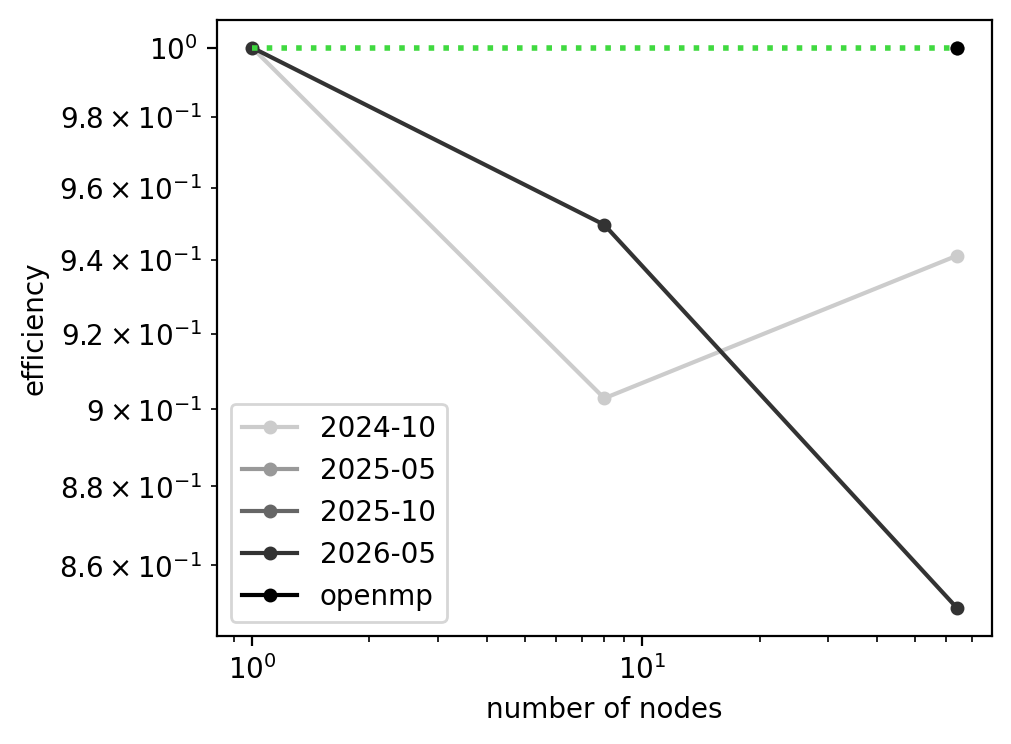
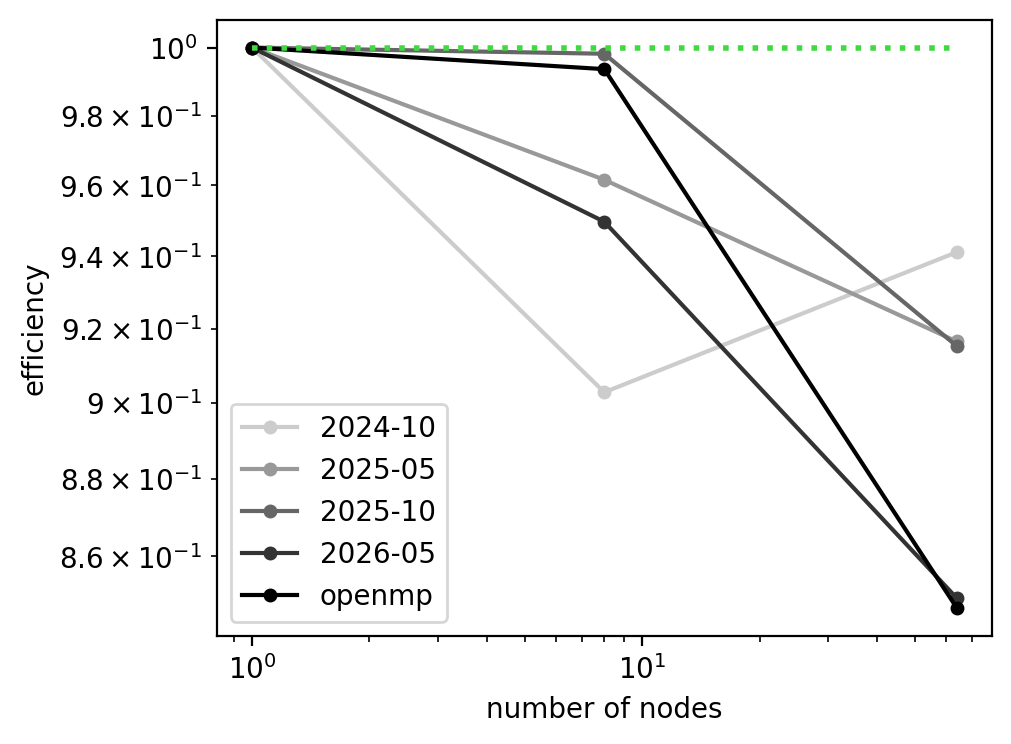
update weak scaling and omp config

diff --git a/analysis/report_scaling.py b/analysis/report_scaling.py
@@ -25,9 +25,15 @@ timer='total'
 
 md = f"""# Benchmark: {args.benchmark} on {args.cluster}
 
-[Benchmark description: {args.benchmark}](../setups/{args.benchmark}/description.md)
+Benchmark description: [{args.benchmark}](../setups/{args.benchmark}/description.md)
 
-[Cluster info: {args.cluster}](../HPCclusters/{args.cluster}/cluster_description.md)
+Cluster info: [{args.cluster}](../HPCclusters/{args.cluster}/cluster_description.md)
+
+On this page:
+* Strong and weak scaling of the latest code release (figure)
+* Evolution of execution time with code version (figure & table with speedup)
+* Strong scaling evolution (figure & table with efficiency)
+* Weak scaling evolution (figure & table with efficiency)
 
 """
 
@@ -135,28 +141,33 @@ using the full compute node.
 """
 
 
+######### In this part, we deal with the latest OpenMP version #########
+data = load_latest_openmp_data(args.cluster, args.benchmark, timer)
 
-# OpenMP insights
+md += f"""## Optimal OpenMP configuration
 
-# Get OMP-MPI grid
-#data = load_latest_openmp_data(args.cluster, args.benchmark, timer)
-#figfile_grid_omp = f'../results/images/mpi_omp_grid_{args.benchmark}_{reso}_{timer}_{args.cluster}.png'
-#plot_mpi_omp_grid(data, reso, 
-#                    fig_name=figfile_grid_omp,
-#                    show_overhead=False)
+""" 
+
+for reso in resos:
+
+    figfile_grid_omp = f'../results/images/mpi_omp_grid_{args.benchmark}_{reso}_{timer}_{args.cluster}.png'
+    plot_mpi_omp_grid(data, reso, 
+                        fig_name=figfile_grid_omp,
+                        show_overhead=False)
+    
+    md += f"""![MPI-OMP]({figfile_grid_omp})
 
 """
-## MPI - OpenMP configuration on 1 node
-
-![MPI-OMP]({figfile_grid_omp})
-
+    
+md += f"""
 This figure gives inside in the behaviour of OpenMP for this setup.
 It shows which MPI - OpenMP configuration is most optimal
 in terms of execution time, for this setup at this resolution.
 The data is for the latest OpenMP version, corresponding to the one
 used for the previous figures.
 
-"""
+""" 
+
 
 # Write markdown page
 outfile = f"../results/results_{args.benchmark}_{args.cluster}.md"

diff --git a/analysis/scaling_weak.py b/analysis/scaling_weak.py
@@ -198,10 +198,15 @@ def table_weak_scaling(benchmarks, release_labels, arr_nodes_in, resos,
 
             config = best_per_case[key]['config']
 
-            col[key] = (
-                f"{efficiency:.3f} "
-                f"({config})"
-            )
+            if config=='MPI=128 OMP=0' or config=='MPI=112 OMP=0':
+                col[key] = (
+                    f"{efficiency:.3f} "
+                )
+            else:
+                col[key] = (
+                    f"{efficiency:.3f} "
+                    f"({config})"
+                )
 
         release_results[label] = col
 

diff --git a/results/results_sedov_meluxina.md b/results/results_sedov_meluxina.md
@@ -1,8 +1,14 @@
 # Benchmark: sedov on meluxina
 
-[Benchmark description: sedov](../setups/sedov/description.md)
+Benchmark description: [sedov](../setups/sedov/description.md)
 
-[Cluster info: meluxina](../HPCclusters/meluxina/cluster_description.md)
+Cluster info: [meluxina](../HPCclusters/meluxina/cluster_description.md)
+
+On this page:
+* Strong and weak scaling of the latest code release (figure)
+* Evolution of execution time with code version (figure & table with speedup)
+* Strong scaling evolution (figure & table with efficiency)
+* Weak scaling evolution (figure & table with efficiency)
 
 ## Strong and weak scaling of the latest code release
 
@@ -70,8 +76,23 @@ using the full compute node.
 
 | Nodes | Resolution | 2024-10 | 2025-05 | 2025-10 | 2026-05 | openmp |
 |---|---|---|---|---|---|---|
-| 1 | 256 | 1.000 (MPI=128 OMP=0) | - | - | 1.000 (MPI=128 OMP=0) | - |
-| 8 | 512 | 0.903 (MPI=128 OMP=0) | - | - | 0.950 (MPI=128 OMP=0) | - |
-| 64 | 1024 | 0.941 (MPI=128 OMP=0) | 1.000 (MPI=128 OMP=0) | 1.000 (MPI=128 OMP=0) | 0.849 (MPI=128 OMP=0) | 1.000 (MPI=64 OMP=2) |
+| 1 | 256 | 1.000  | 1.000  | 1.000  | 1.000  | 1.000 (MPI=32 OMP=4) |
+| 8 | 512 | 0.903  | 0.962  | 0.998  | 0.950  | 0.994 (MPI=32 OMP=4) |
+| 64 | 1024 | 0.941  | 0.917  | 0.915  | 0.849  | 0.847 (MPI=64 OMP=2) |
 
+
+## Optimal OpenMP configuration
+
+![MPI-OMP](../results/images/mpi_omp_grid_sedov_256_total_meluxina.png)
+
+![MPI-OMP](../results/images/mpi_omp_grid_sedov_512_total_meluxina.png)
+
+![MPI-OMP](../results/images/mpi_omp_grid_sedov_1024_total_meluxina.png)
+
+
+This figure gives inside in the behaviour of OpenMP for this setup.
+It shows which MPI - OpenMP configuration is most optimal
+in terms of execution time, for this setup at this resolution.
+The data is for the latest OpenMP version, corresponding to the one
+used for the previous figures.
 
